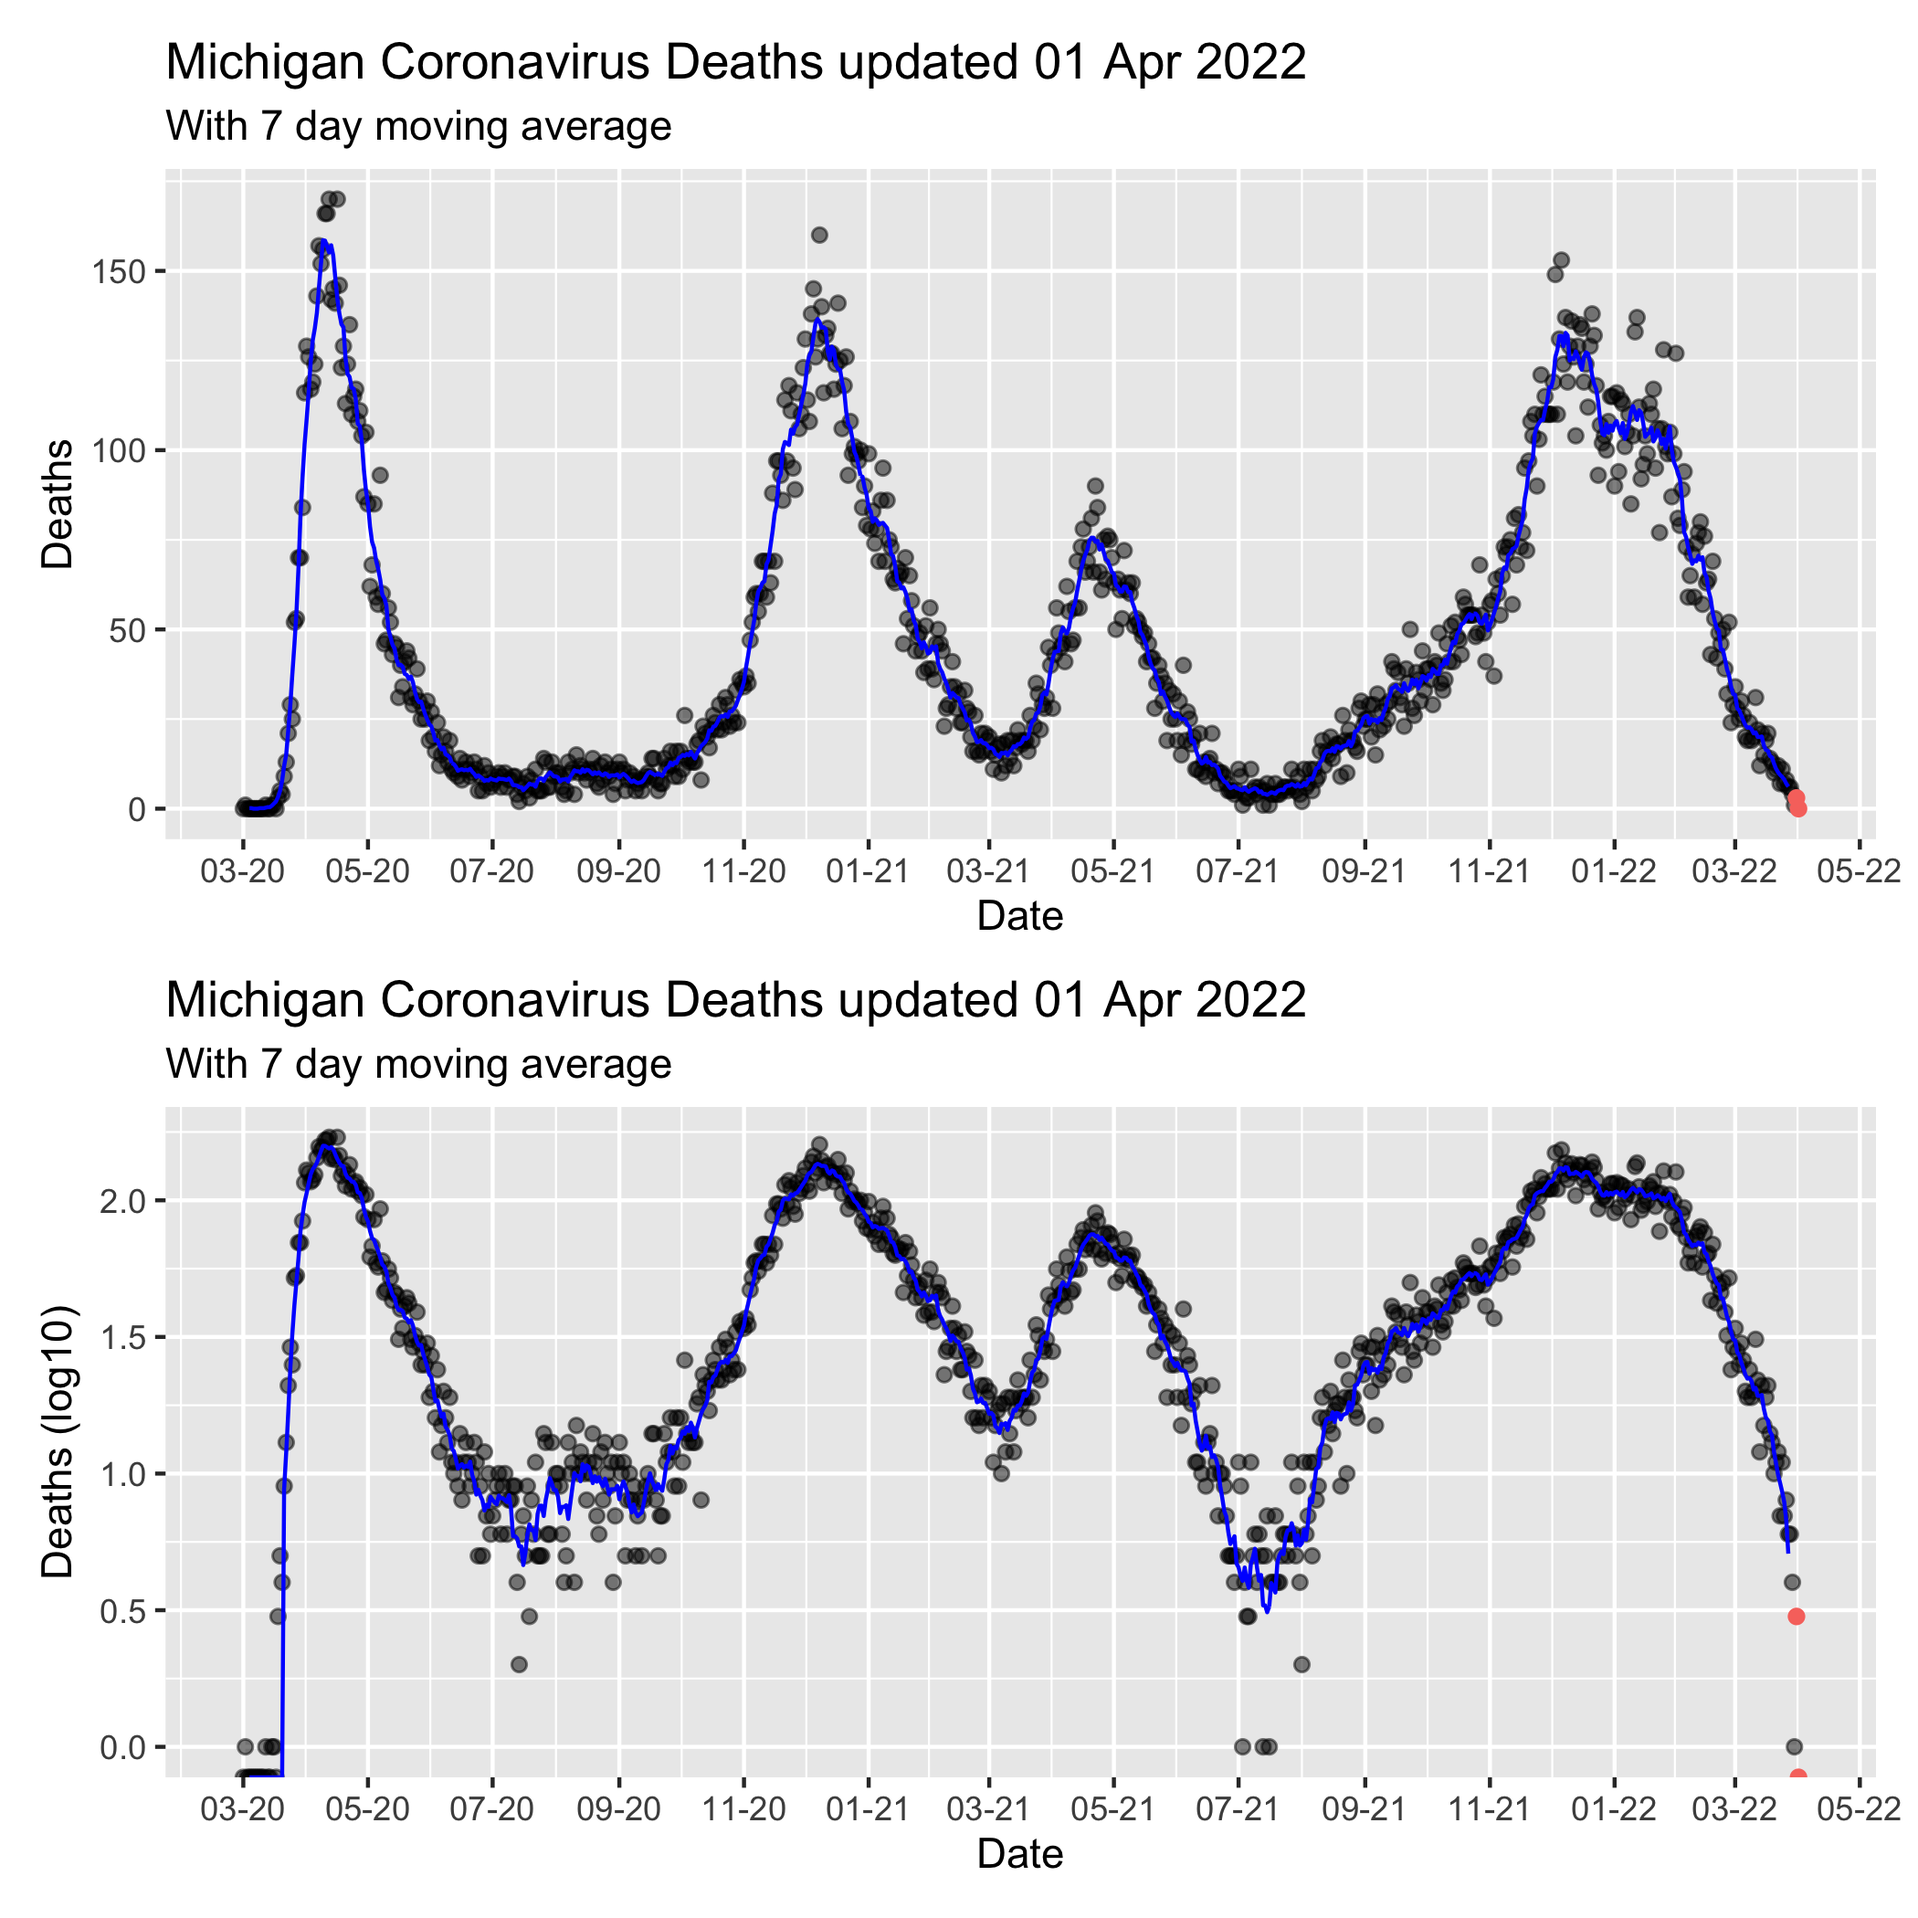
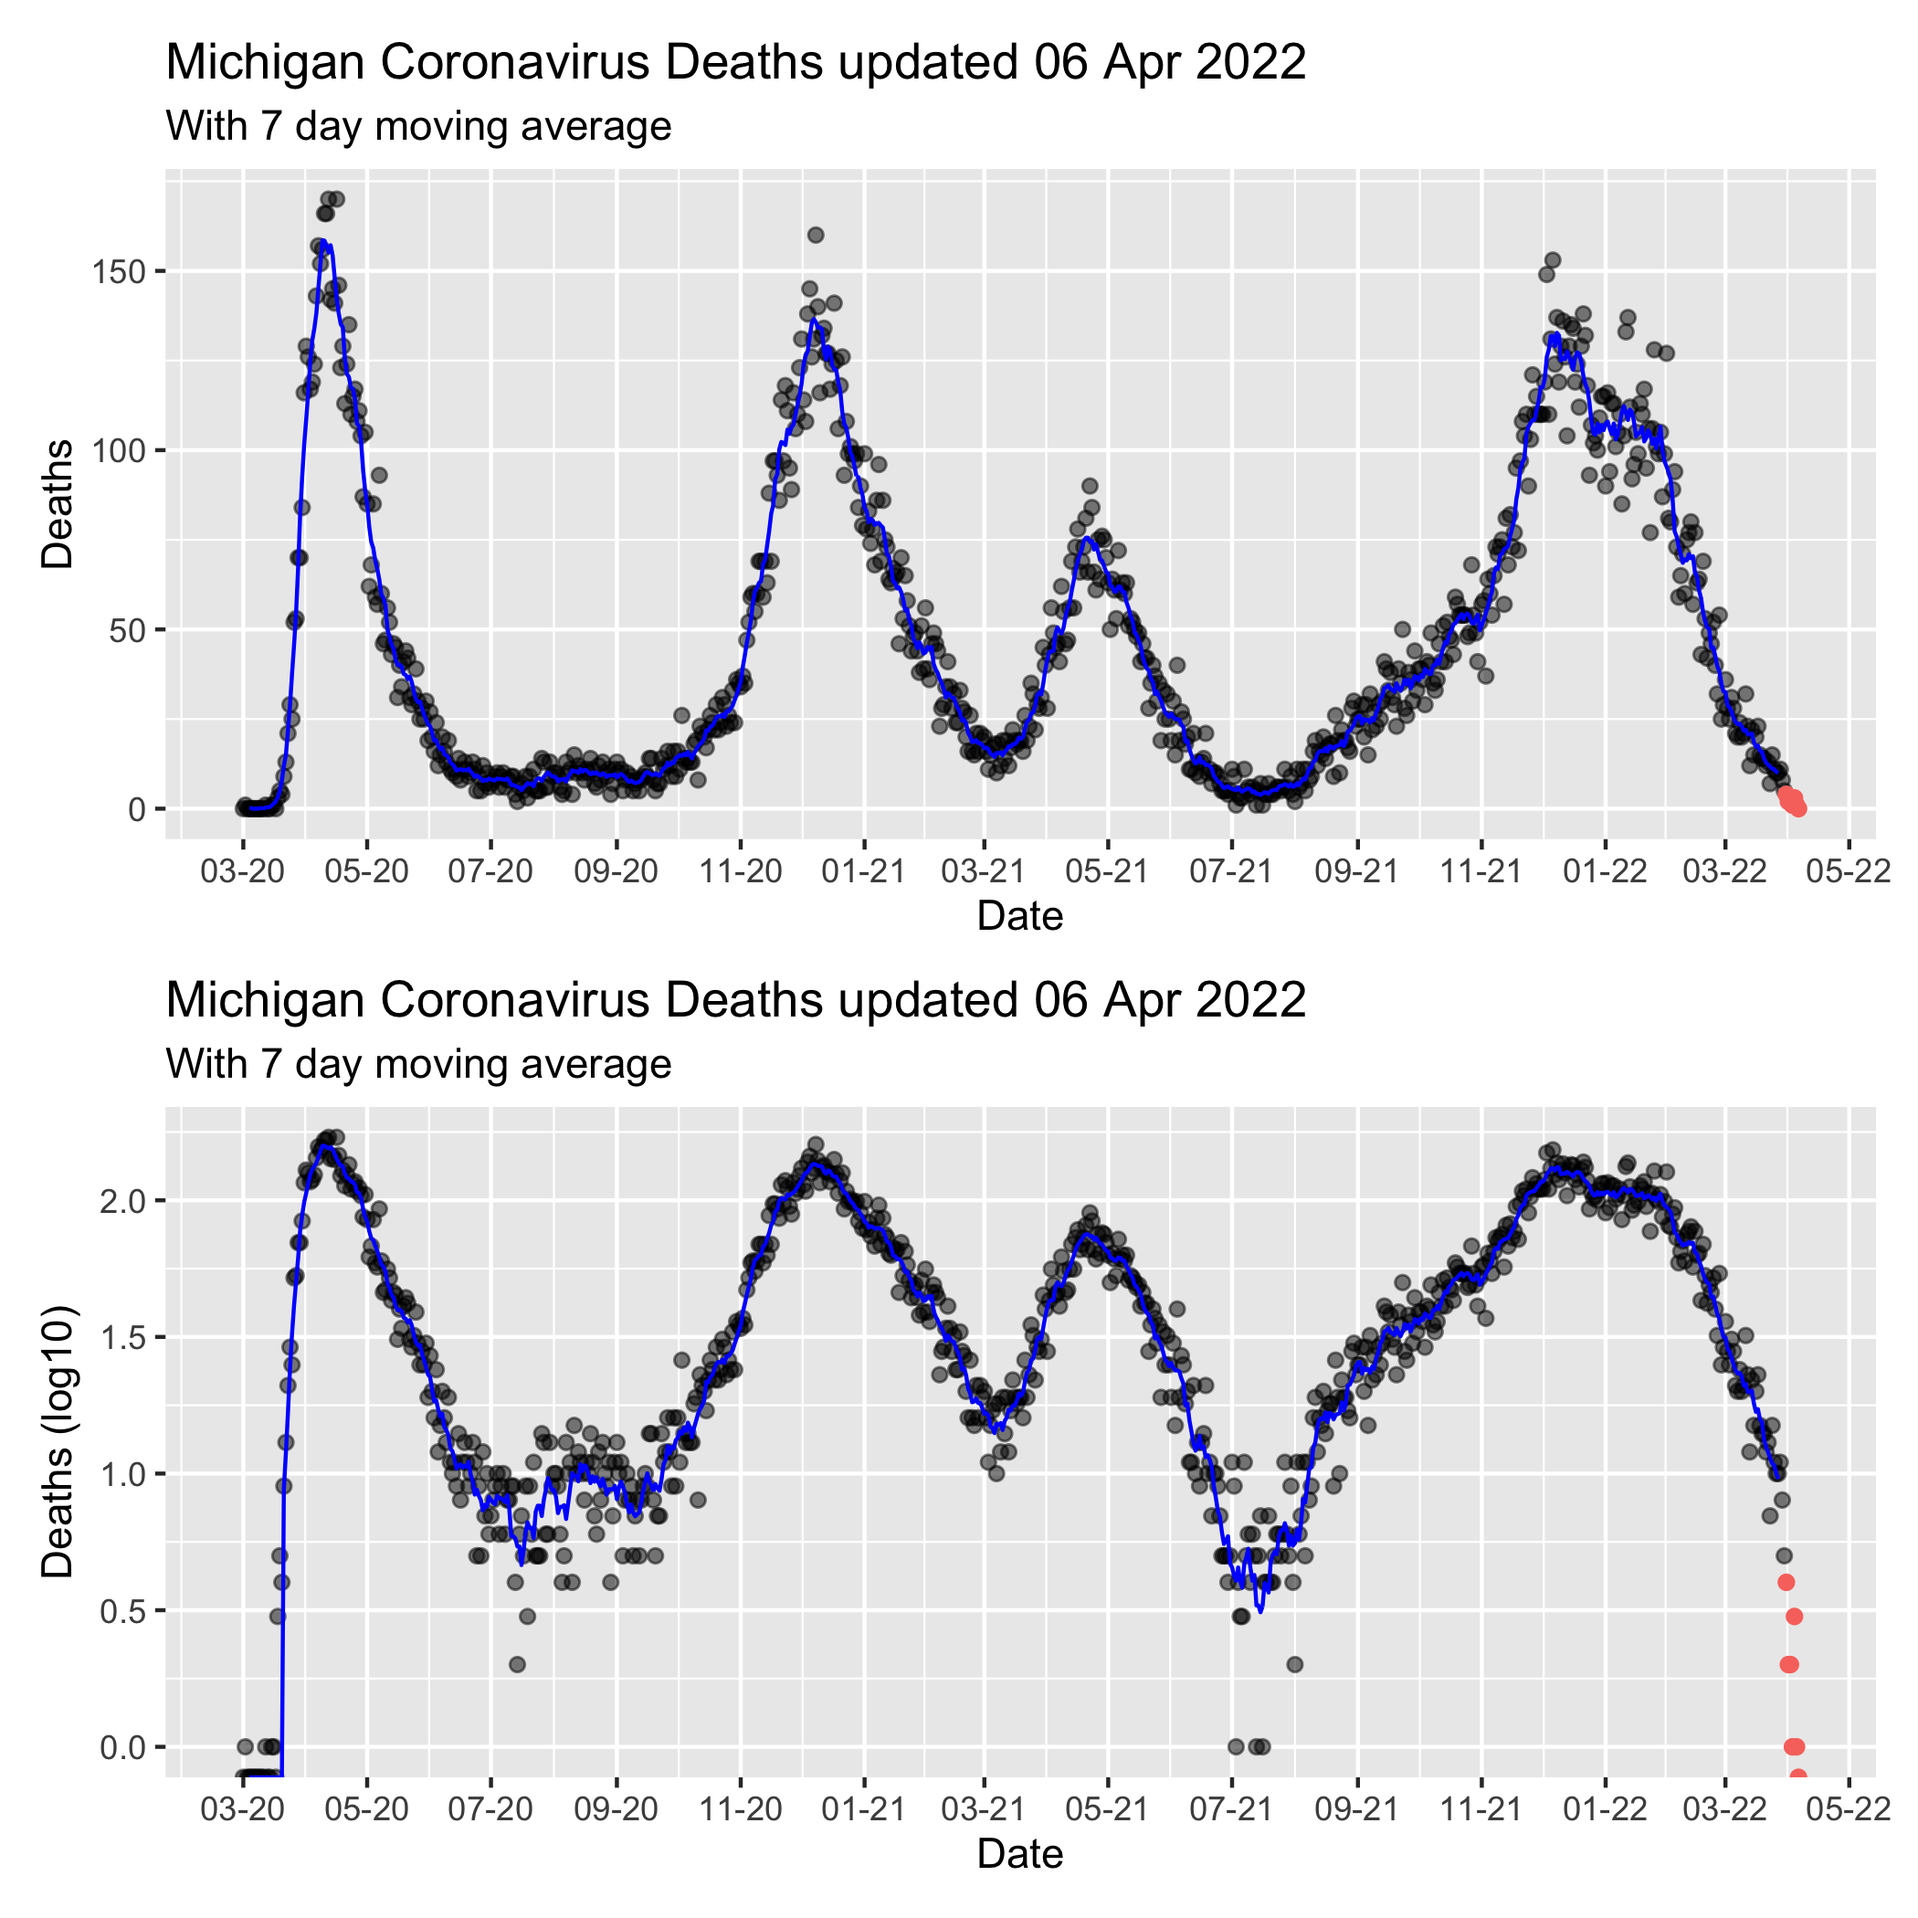
Apr-06 2022 18:31 update

diff --git a/MiCorona.md b/MiCorona.md
@@ -49,11 +49,11 @@ mi_data.head()
     ## 4  Alcona 2020-03-05   Confirmed    0.0     0.0               0.0   
     ## 
     ##    Deaths.Cumulative                       Updated  
-    ## 0                0.0 2022-04-01 12:47:54.260999936  
-    ## 1                0.0 2022-04-01 12:47:54.260999936  
-    ## 2                0.0 2022-04-01 12:47:54.260999936  
-    ## 3                0.0 2022-04-01 12:47:54.260999936  
-    ## 4                0.0 2022-04-01 12:47:54.260999936
+    ## 0                0.0 2022-04-06 13:57:08.617000192  
+    ## 1                0.0 2022-04-06 13:57:08.617000192  
+    ## 2                0.0 2022-04-06 13:57:08.617000192  
+    ## 3                0.0 2022-04-06 13:57:08.617000192  
+    ## 4                0.0 2022-04-06 13:57:08.617000192
 
 ``` python
 max_date = max(mi_data["Updated"])
@@ -135,5 +135,5 @@ viz_function(mi_cases_by_day_exclusive, mi_cases_by_day_last4, Date, Deaths, ver
 
 ![](MiCorona_files/figure-gfm/viz2-1.png)<!-- -->
 
-Note that the last 2 days of data have been colored red on the graph, as
+Note that the last 7 days of data have been colored red on the graph, as
 they frequently change as more information becomes available.
